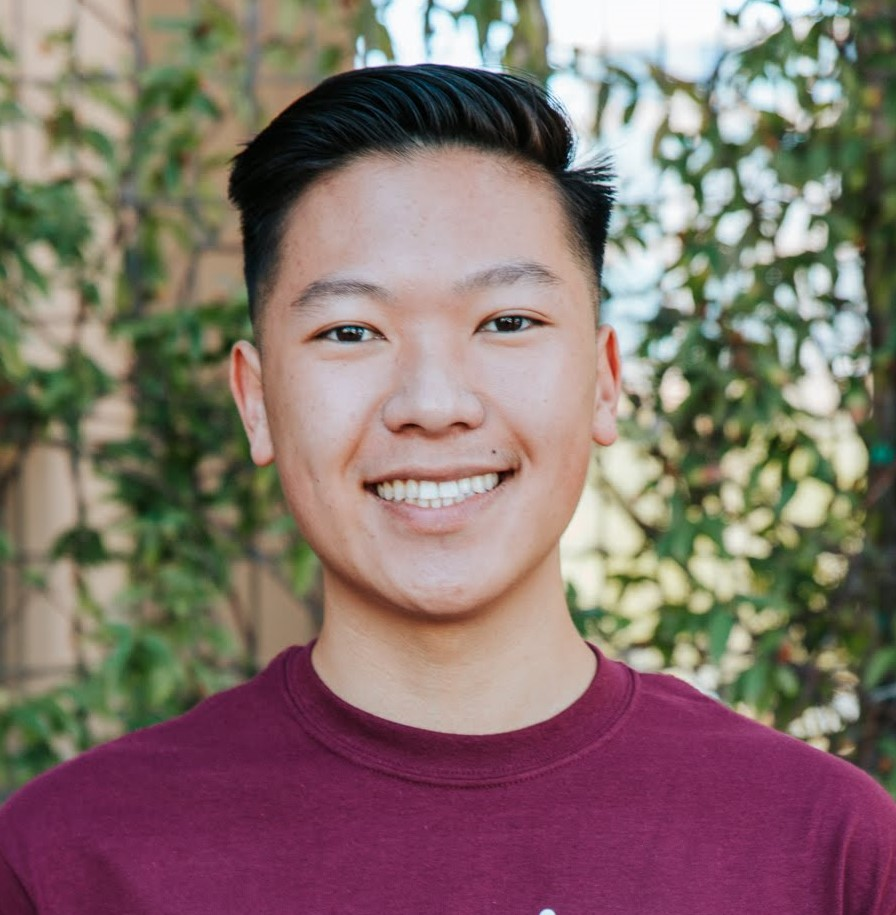
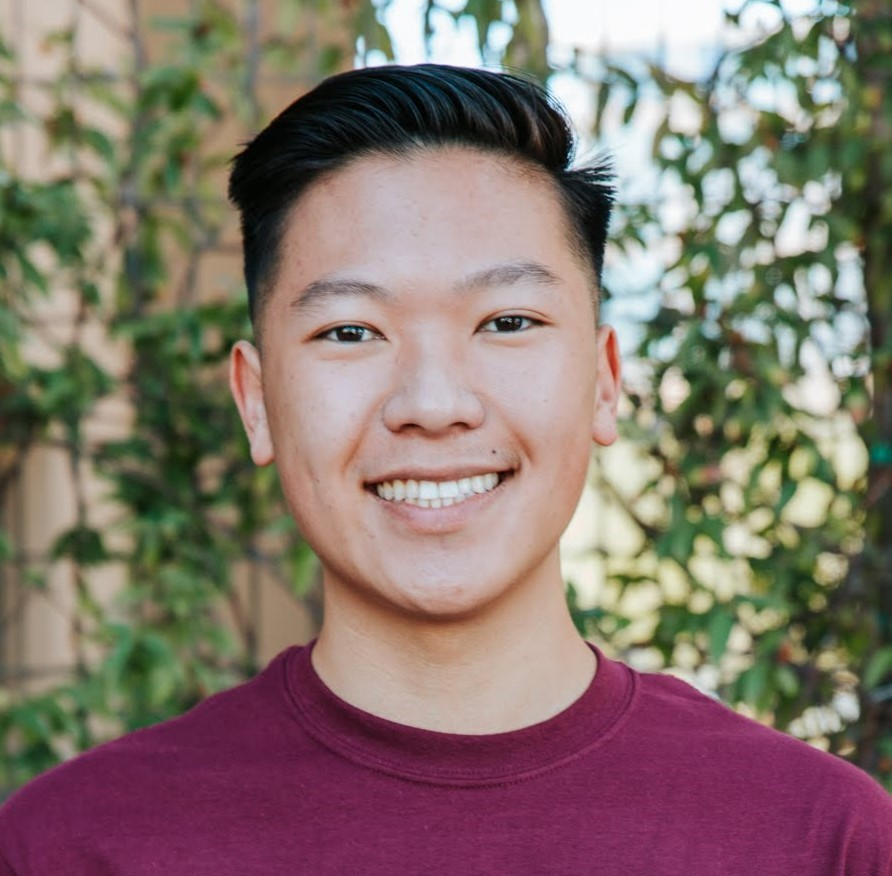
Style About section and remove animations for now

diff --git a/src/styles/about.module.scss b/src/styles/about.module.scss
@@ -1,97 +1,45 @@
 .content {
-  display: flex;
-  justify-content: space-between;
-}
-
-.title {
-  color: var(--white);
-  font-family: var(--apex-bold);
-  letter-spacing: 0.1rem;
-  white-space: nowrap;
-  margin-right: 1rem;
-  font-size: 24px;
-}
-
-.rightside {
-  max-width: 48%;
-}
-
-.leftside {
-  max-width: 48%;
+  display: grid;
+  grid-template-columns: 1fr 1fr;
+  gap: 50px;
 }
 
 .text {
-  color: var(--slate-light);
-  display: flex;
-  flex-direction: column;
-  justify-content: space-between;
+  width: 100%;
   height: 100%;
-  font-family: var(--bevietnam-light);
-  // letter-spacing: 0.1rem;
+}
+
+.image {
+  width: 100%;
+  height: 100%;
+  align-self: center;
 }
 
 .wrapper {
-  position: relative;
+  background-color: var(--orange);
+  width: 100%;
   height: auto;
-  // max-width: 48%;
-  background-color: rgb(241, 187, 82);
   transition: 0.3s;
 }
 
-.pic {
+.me {
   display: block;
   width: 100%;
   height: auto;
-  mix-blend-mode: multiply;
-  filter: grayscale(100%);
+  // mix-blend-mode: multiply;
+  // filter: grayscale(100%);
   transition: 0.3s;
 }
-
-.wrapper:hover {
-  .pic {
-    filter: none;
-    // transform: translate(-20px, -15px);
-    transition: 0.3s;
-    mix-blend-mode: normal;
-  }
-  transition: 0.3s;
-}
-
-// .lists {
-//   display: flex;
-//   // justify-content: space-between;
-// }
-
-// ul {
-//   list-style-position: inside;
-//   list-style: none;
-//   margin-right: 2rem;
-// }
-
-// li {
-//   font-family: $oxygen-mono;
-//   font-size: 14px;
-//   line-height: 1.5;
-// }
-
-// li::before {
-//   content: "■";
-//   color: $orange;
-//   display: inline-block;
-//   width: 1rem;
-// }
-
-// li::marker {
-//   color: red;
-//   content: "►";
-// }
 
 @media screen and (max-width: 768px) {
   .content {
+    display: flex;
     flex-direction: column;
   }
 
-  .rightside {
+  .image {
     order: -1;
+    width: 300px;
+    align-self: center;
   }
 }

diff --git a/src/components/sections/about.js b/src/components/sections/about.js
@@ -37,17 +37,15 @@ function About() {
     <div id="about" className="section">
       <SectionHeader heading={heading} />
       <div className={styles.content}>
-        <div className={styles.leftside}>
-          <div className={styles.text}>
-            <p>{aboutData.paragraph1}</p>
-            <p>{aboutData.paragraph2}</p>
-            <p>{aboutData.paragraph3}</p>
-            <Skills />
-          </div>
+        <div className={styles.text}>
+          <p className="paragraph">{aboutData.paragraph1}</p>
+          <p className="paragraph">{aboutData.paragraph2}</p>
+          <p className="paragraph">{aboutData.paragraph3}</p>
+          <Skills />
         </div>
-        <div className={styles.rightside}>
+        <div className={styles.image}>
           <div className={styles.wrapper}>
-            <img src={Me} alt="me" className={styles.pic} />
+            <img className={styles.me} src={Me} alt="me" />
           </div>
         </div>
       </div>

diff --git a/src/components/skills.js b/src/components/skills.js
@@ -4,7 +4,7 @@ import styles from "styles/skills.module.css"
 function Skills() {
   return (
     <div id="skills">
-      <p style={{ marginBottom: "1rem" }}>
+      <p className="paragraph">
         Some tools and technologies I've been working with are:
       </p>
       <div className={styles.lists}>

diff --git a/src/styles/global.css b/src/styles/global.css
@@ -75,6 +75,11 @@ body {
   padding: 150px 0;
 }
 
+.paragraph {
+  color: var(--slate-light);
+  margin-bottom: 1rem;
+}
+
 .button {
   color: var(--orange);
   font-family: "Oxygen Mono";

diff --git a/src/styles/skills.module.css b/src/styles/skills.module.css
@@ -9,6 +9,7 @@ ul {
 }
 
 li {
+  color: var(--slate-light);
   font-family: var(--oxygen-mono);
   font-size: var(--fs-md);
   line-height: 1.5;

diff --git a/src/styles/section-header.module.css b/src/styles/section-header.module.css
@@ -21,3 +21,9 @@
 .anchor {
   color: var(--orange);
 }
+
+@media screen and (max-width: 768px) {
+  .hr {
+    width: 100%;
+  }
+}
